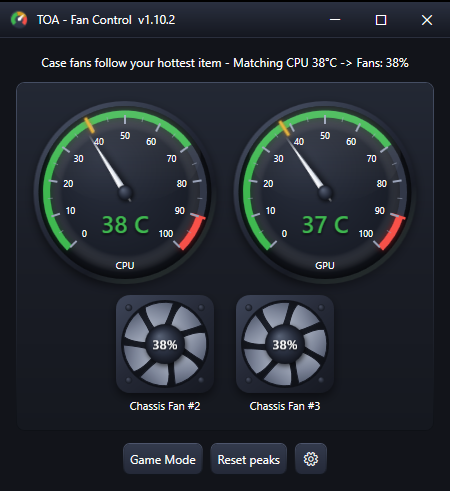
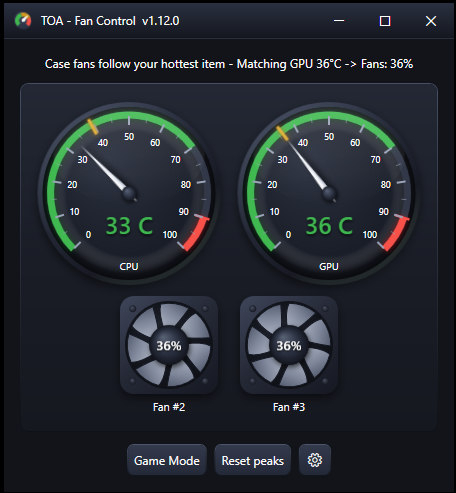
README - v1.12.0 dial screenshots, dashboard line mentions bars

diff --git a/README.md b/README.md
@@ -39,7 +39,7 @@ There are no curves, no profiles, no targets, no tuning. If that's what you want
 
 There's nothing you *have* to do — it sits in the system tray and does its job on its own. But when you want to check in on things, you get:
 
-- **A dashboard** — CPU/GPU temperature dials with peak markers, plus a spinning fan tile per case fan showing the driven % (the blades spin at the fan's real speed).
+- **A dashboard** — CPU/GPU temperature dials or bars with peak markers, plus a spinning fan tile per case fan showing the driven % (the blades spin at the fan's real speed).
 
   <p align="center"><img src="Docs/images/dials-dark.png" width="300" alt="Temperature dials — dark theme" />&nbsp;&nbsp;<img src="Docs/images/dials-light.png" width="300" alt="Temperature dials — light theme" /></p>
 
